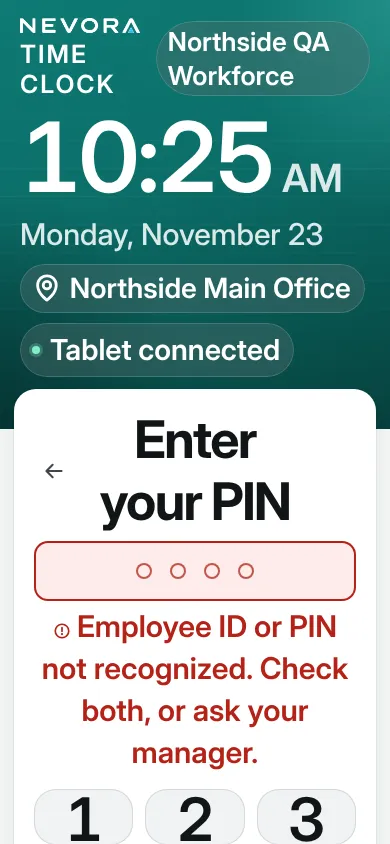
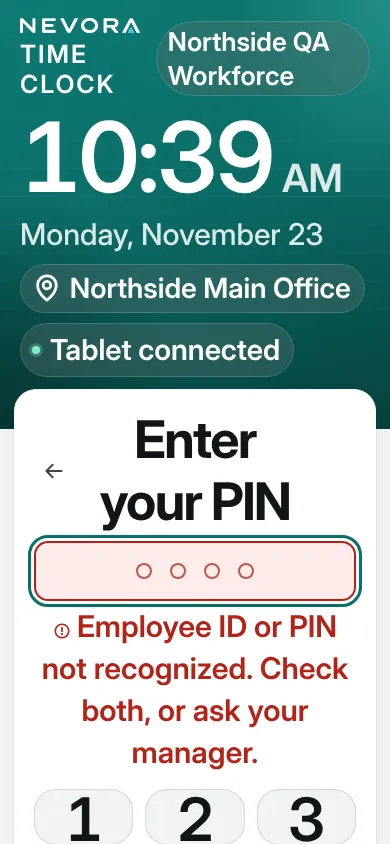
Clocker K3, K4: recaptured typed ID and the unknown-ID error at 390 and 200% text
Claude-Session: https://claude.ai/code/session_01N2UNZD2hdESzbsSS51peiH

Changed region(s): [[0.0923, 0.6161, 0.9538, 0.7393], [0.4, 0.1232, 0.7077, 0.2464], [0.0615, 0.6469, 0.0923, 0.7085]]

diff --git a/docs/handoffs/2026-11-23-phase2-cloud/reports/clocker-k3.md b/docs/handoffs/2026-11-23-phase2-cloud/reports/clocker-k3.md
@@ -12,6 +12,11 @@ Postgres. No real device, notification, payment, deploy or publishing.
   768x1024, 1024x768 and 390x844 with 200% text, in English and Spanish.
 - `f4d33443` The fix (`src/components/clocker.module.css`) and its test beside the gate
   (`src/components/clocker-pin-gate.test.tsx`).
+- `78f7aca0` Merge of `claude-codex-collab-nevora` at da3283a0.
+- `aef0ac6b` End-sweep rows 1 and 4, on K3 and K4 together (`clocker.module.css`, tests in `clocker-pin-gate.test.tsx`):
+  the Continue arrow is 1.25rem (20px at the default size, 40px at 200% text), and while a refusal shows the PIN field
+  keeps a 3px teal focus outline outside its red border. Recaptured: K3 typed and the K4 unknown-ID error, EN, 390 and
+  390 at 200%. Clocker suite 226 passed, tsc clean.
 - Shots commit: this report, `shots/clocker-k3/rows.json` and `img/`.
 
 ## What changed
@@ -52,11 +57,12 @@ motion of its own).
 None.
 
 ## End-sweep items (proposed ledger rows)
-1. The Continue arrow stays 20px at 200% text while the word grows (fixed icon size in `ClockerIcon`).
+Rows 1 (Continue arrow at 200% text) and 4 (focus hidden by the error border) are fixed in `aef0ac6b`. Rows 2 and 3 are
+wording decisions the lead is putting to Jose; not changed.
 2. Offline: the band and the card heading both say "No connection" ("Sin conexión"). Kept because the band follows the
    card by the approved rule NV-049, and K1's setup and the fallback screen use the same pair. Proposed for Jose: band
    "Offline", or a heading "This tablet is offline" on K1, K3 and the fallback together.
 3. Unknown ID: the message says "Check both" on the PIN step, where the Employee ID isn't shown; the way back is the
    icon-only back arrow ("Change Employee ID"). Proposed: show the entered ID under the heading with a Change link (K4).
-4. Unknown ID: focus stays in the PIN field, whose red error border replaces the teal focus ring, so focus isn't
-   visible while the error shows (K4 pattern).
+5. New: the globe in the language switch stays 16px at 200% text (outside this fix's scope; the switch is shared by
+   every Clocker screen).
